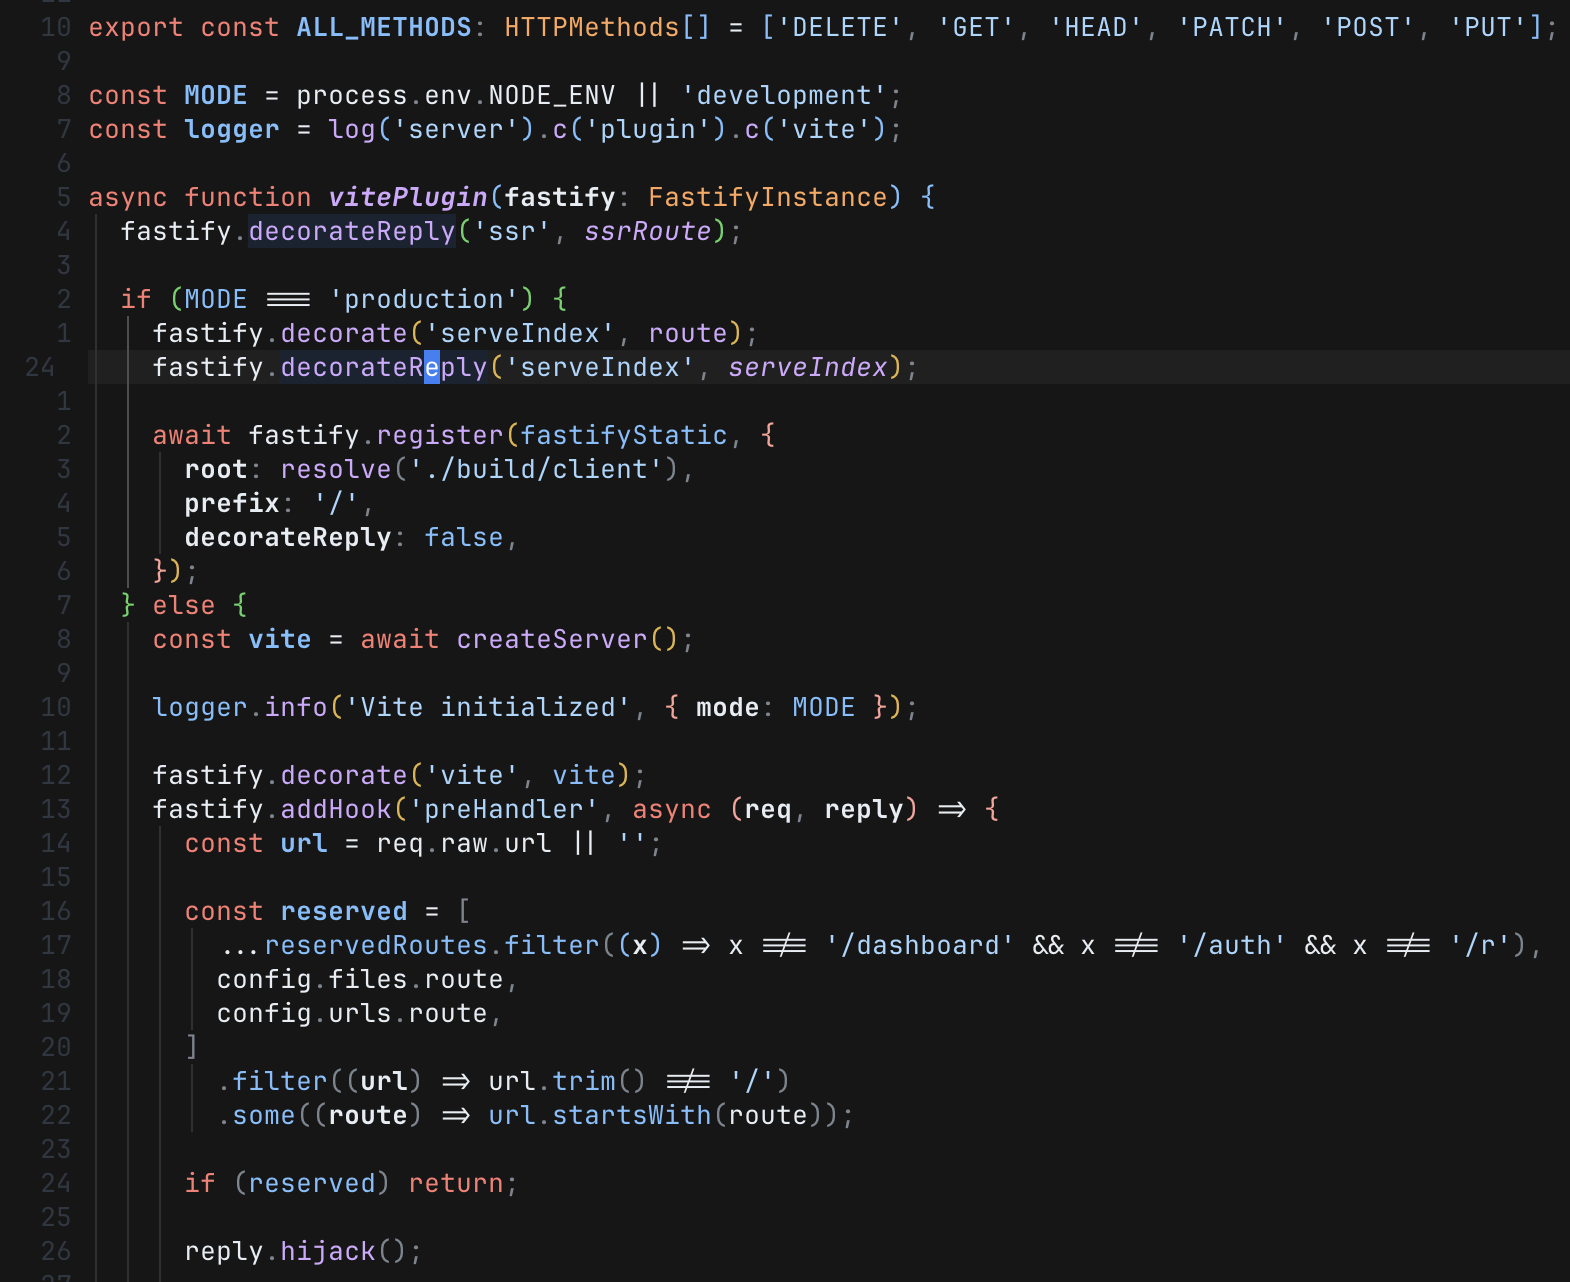
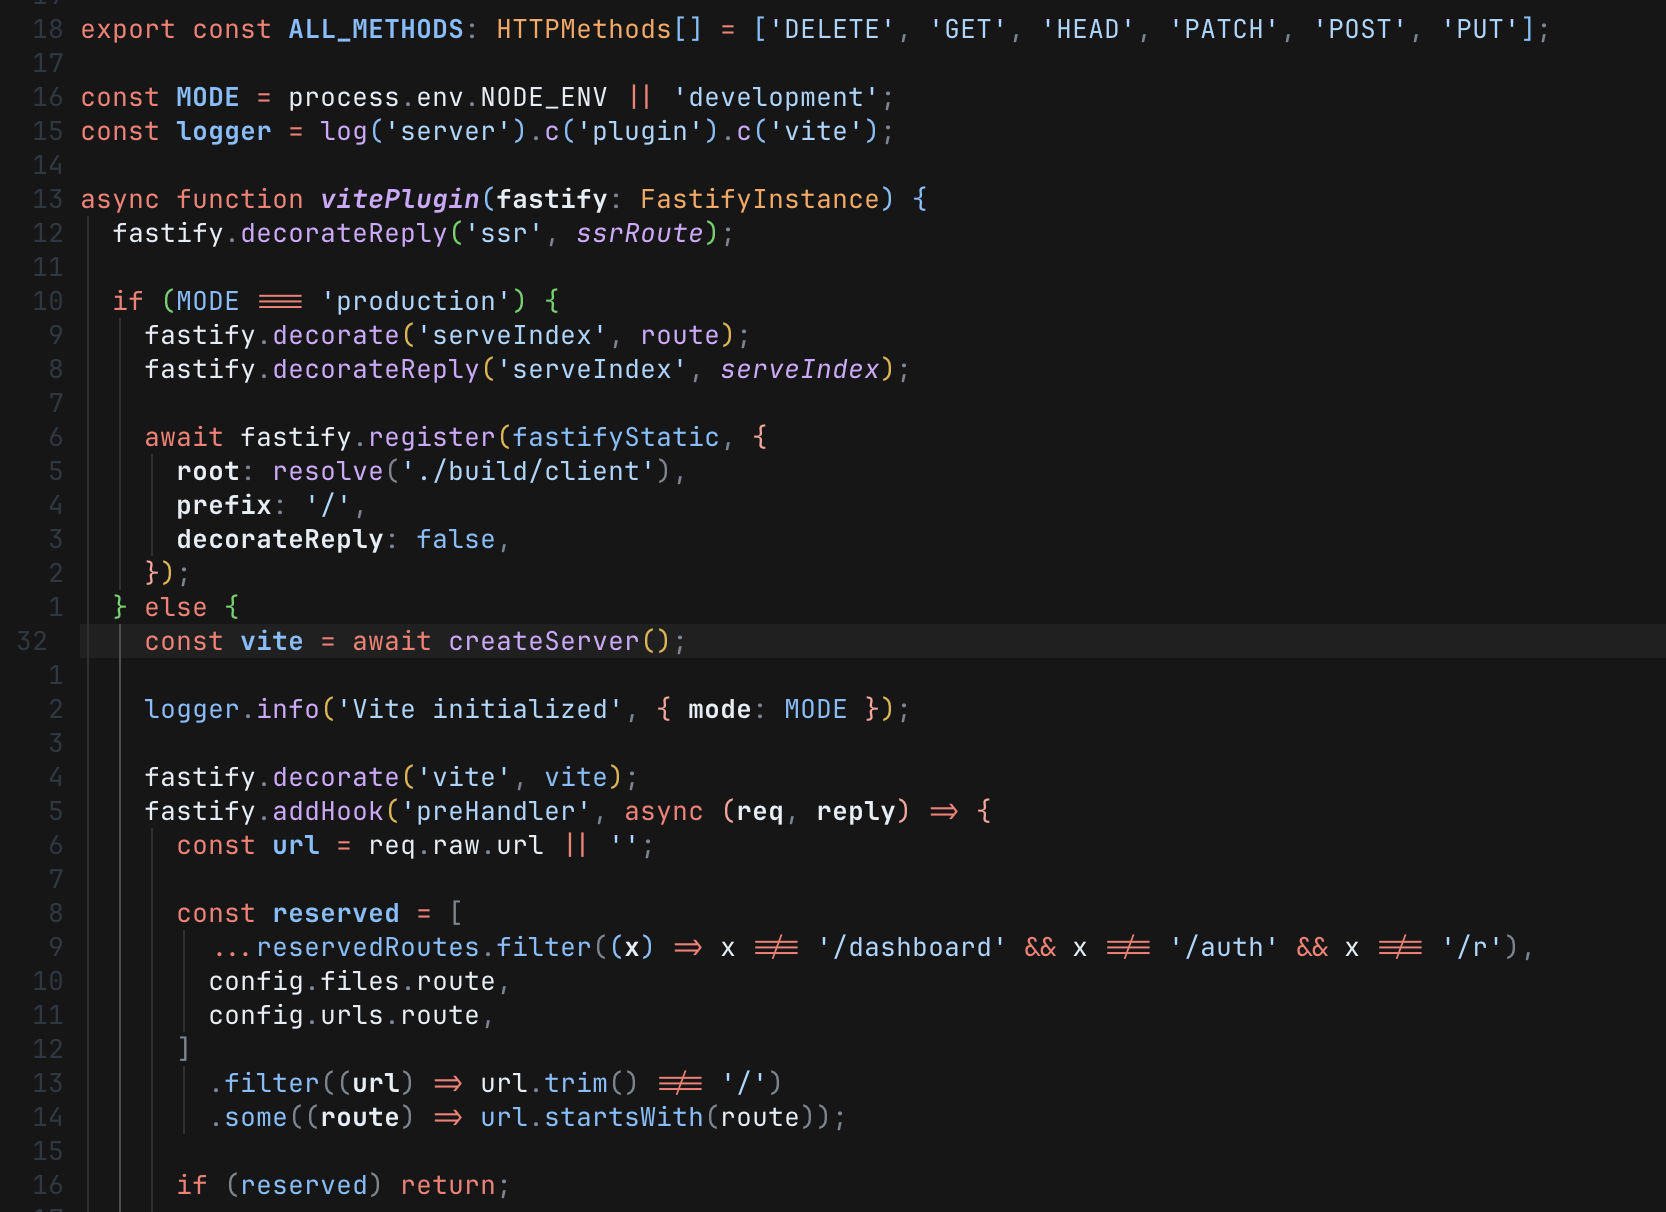
fix: operators + readme

diff --git a/README.md b/README.md
@@ -58,7 +58,7 @@ Thanks to cursor and an hour of prompting, a fully working theme that looks good
 
 ## Screenshots
 
-![ss][.github/ss.png]
+![ss](.github/ss.png)
 
 ---
 
